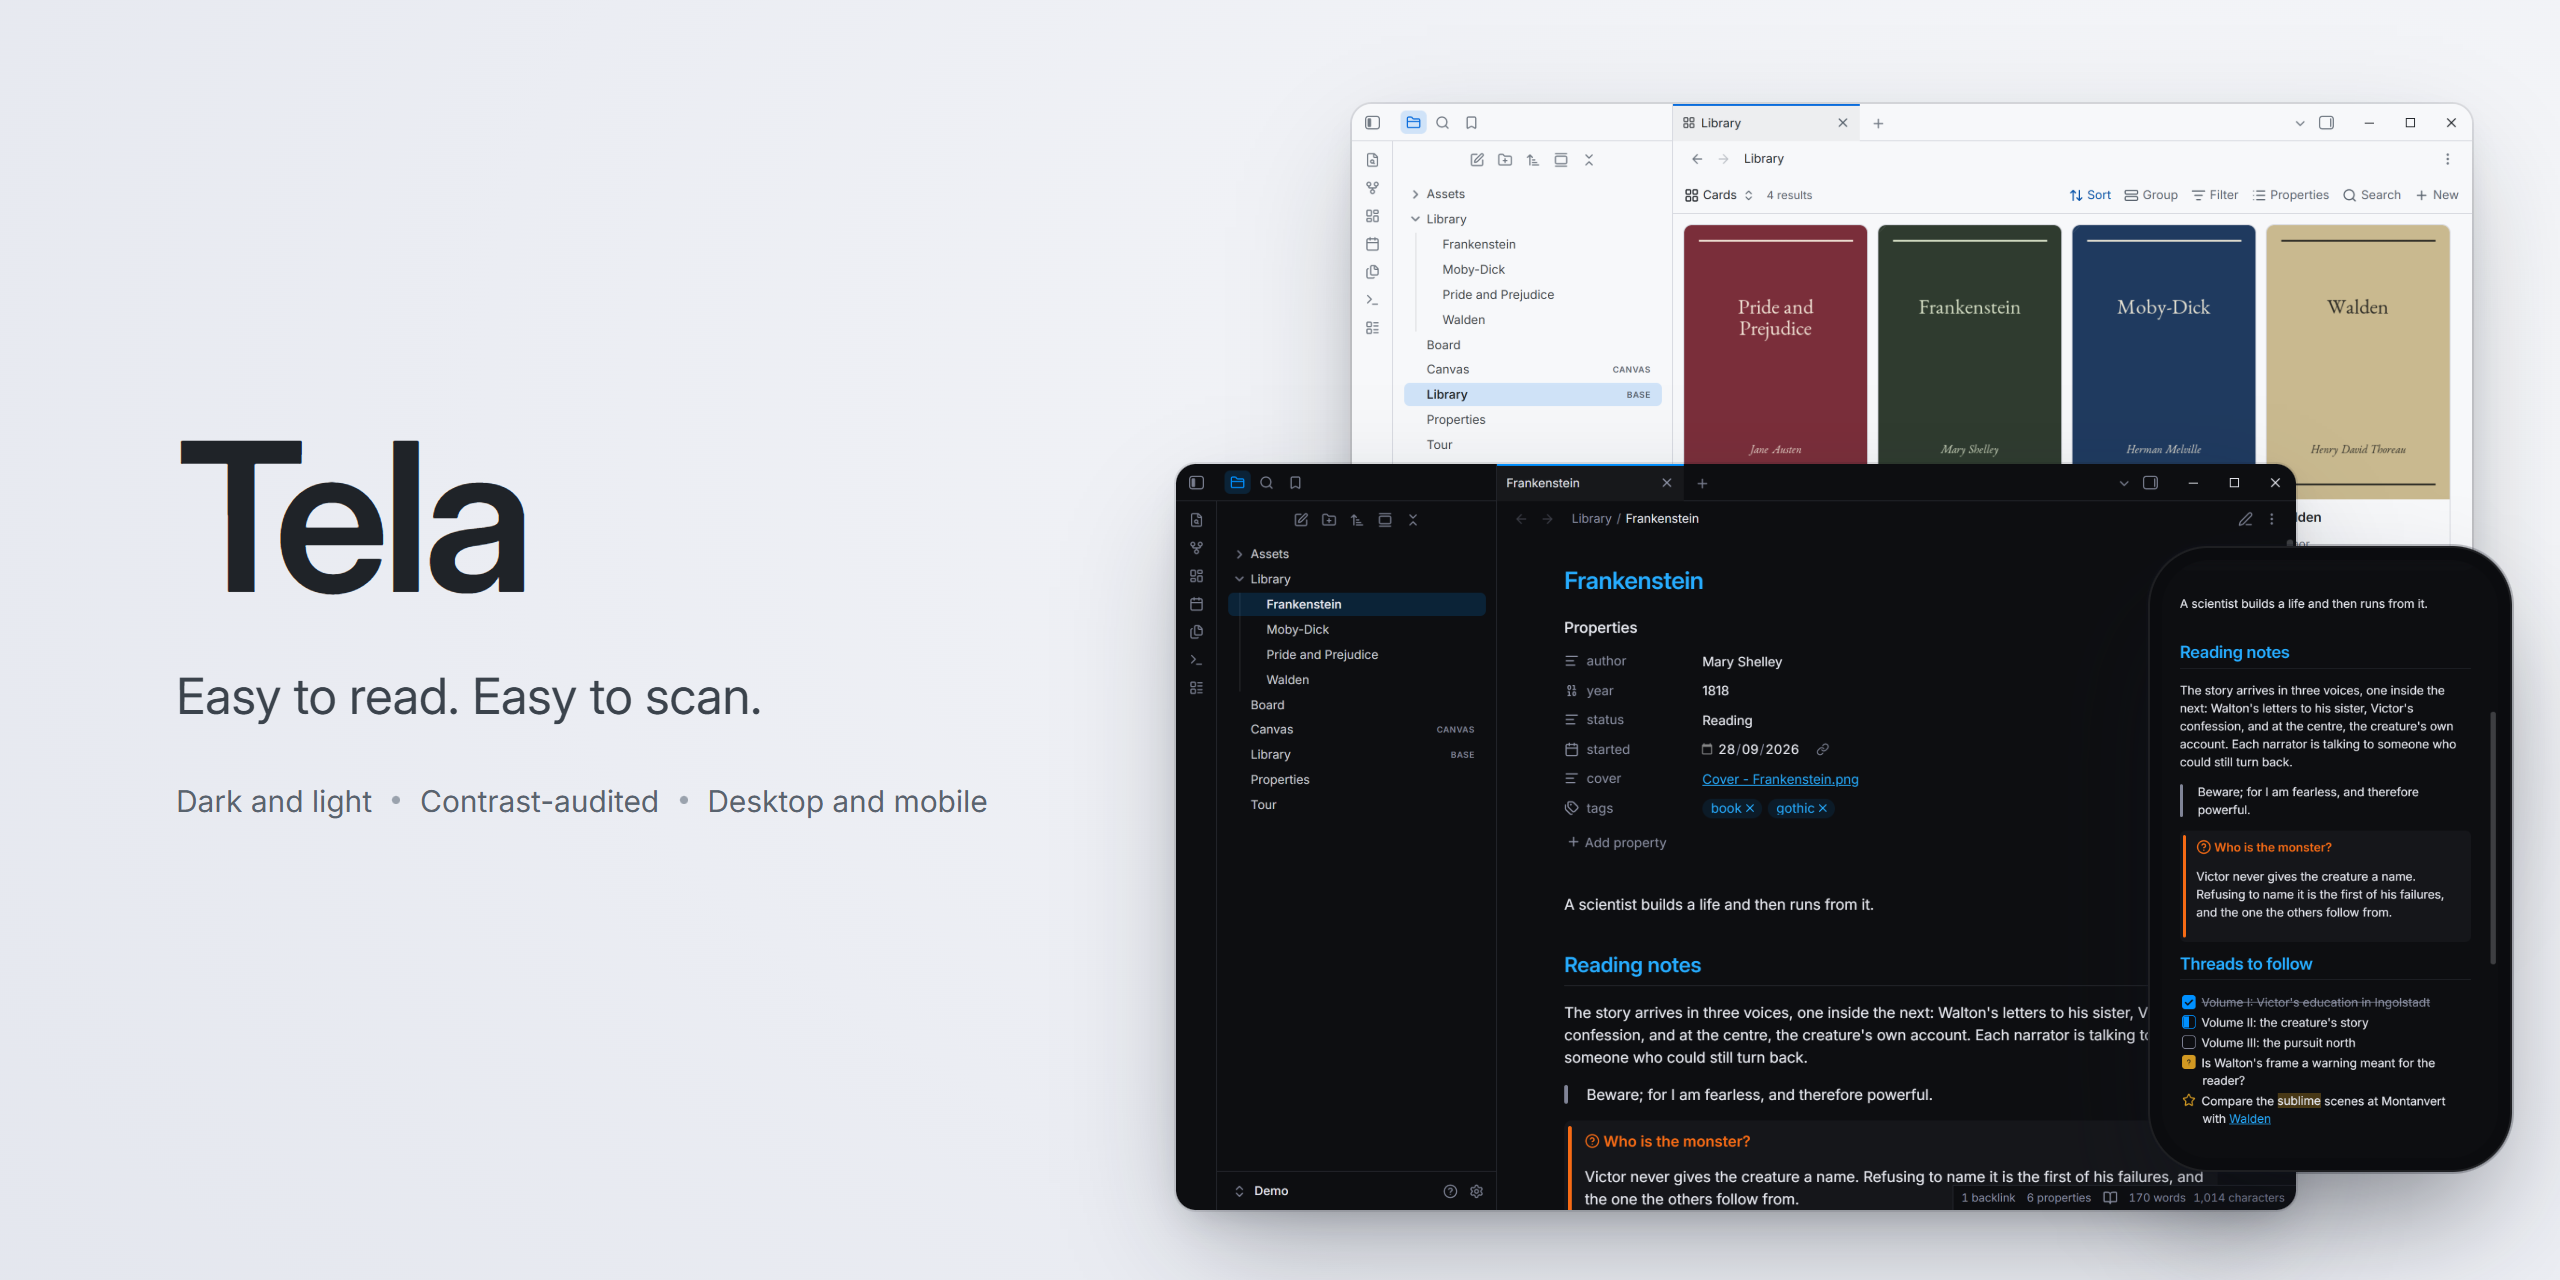
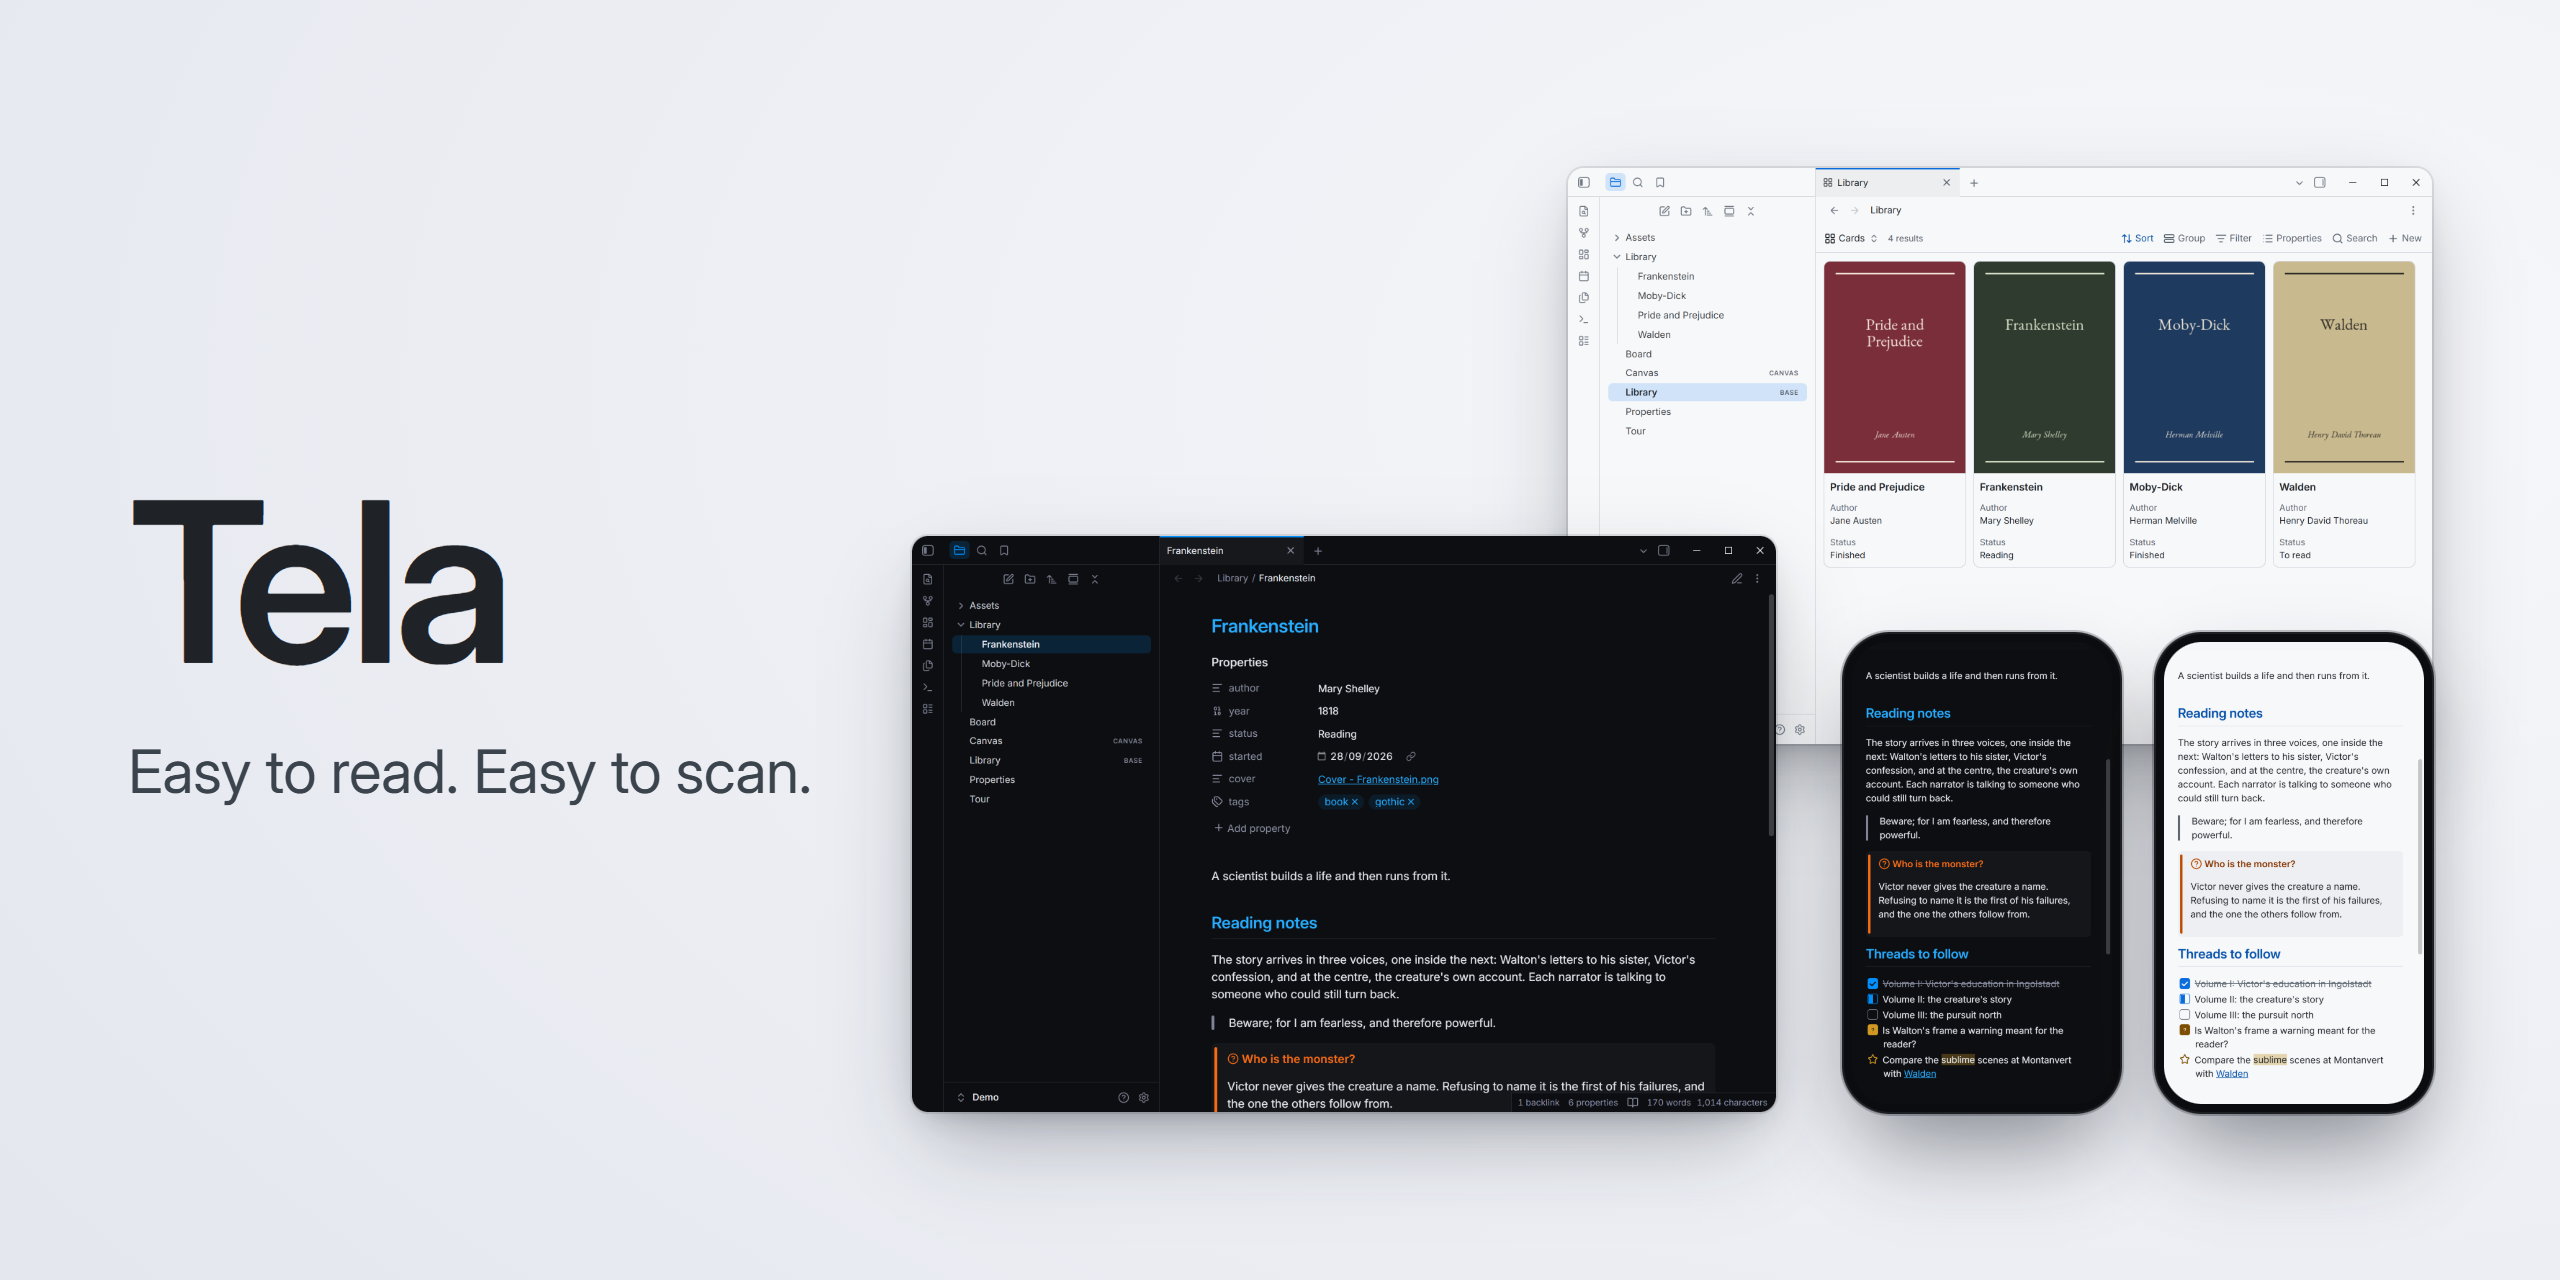
feat: the cover matches the directory's card (#20)
The README cover, also the GitHub social preview, shows the card's scene at
0.72 scale: both windows and a phone in each mode, without the facts line.

diff --git a/scripts/shots-cover.html b/scripts/shots-cover.html
@@ -1,6 +1,8 @@
-<!-- The README cover, 1280x640 at 2x. scripts/shots.mjs fills {{light}},
-     {{dark}} and {{phone}} with its captures and renders this in a shadow
-     root over Obsidian, so the type is the Inter that Obsidian bundles. -->
+<!-- The README cover and GitHub social preview, 1280x640 at 2x: the card's
+     scene (scripts/shots-card.html) at 0.72 scale beside the title.
+     scripts/shots.mjs fills {{light}}, {{dark}}, {{phone}} and {{phoneLight}}
+     with its captures and renders this in a shadow root over Obsidian, so the
+     type is the Inter that Obsidian bundles. -->
 <style>
 	.cover {
 		position: relative;
@@ -11,41 +13,39 @@
 		font-family: "Inter", sans-serif;
 		-webkit-font-smoothing: antialiased;
 	}
-	.title { position: absolute; left: 88px; top: 206px; }
-	h1 { margin: 0; color: #1f2328; font-size: 104px; font-weight: 600; letter-spacing: -0.035em; line-height: 1; }
-	.tagline { margin-top: 22px; color: #3b434c; font-size: 25px; letter-spacing: -0.01em; }
-	.facts { display: flex; gap: 10px; align-items: center; margin-top: 26px; color: #59636e; font-size: 15px; }
-	.facts i { display: inline-block; width: 4px; height: 4px; border-radius: 50%; background: #9aa2ad; }
+	.title { position: absolute; left: 64px; top: 50%; transform: translateY(-50%); }
+	h1 { margin: 0; color: #1f2328; font-size: 112px; font-weight: 600; letter-spacing: -0.035em; line-height: 1; }
+	.tagline { margin-top: 20px; color: #3b434c; font-size: 30px; letter-spacing: -0.01em; }
 	.window {
 		position: absolute;
-		width: 560px;
+		width: 432px;
 		overflow: hidden;
-		border-radius: 10px;
-		box-shadow: 0 0 0 1px rgb(15 20 30 / 10%), 0 24px 60px -12px rgb(15 20 30 / 35%), 0 8px 18px -8px rgb(15 20 30 / 25%);
+		border-radius: 8px;
+		box-shadow: 0 0 0 1px rgb(15 20 30 / 10%), 0 18px 45px -9px rgb(15 20 30 / 35%), 0 6px 14px -6px rgb(15 20 30 / 25%);
 	}
 	.window img { display: block; width: 100%; }
-	.light { left: 676px; top: 52px; }
-	.dark { left: 588px; top: 232px; }
+	.light { left: 784px; top: 84px; }
+	.dark { left: 456px; top: 268px; }
 	.phone {
 		position: absolute;
-		left: 1074px;
-		top: 273px;
-		width: 168px;
-		height: 299px;
-		padding: 7px;
-		border-radius: 30px;
+		width: 130px;
+		height: 231px;
+		padding: 5px;
+		border-radius: 24px;
 		background: #0b0c0f;
-		box-shadow: inset 0 0 0 1px rgb(255 255 255 / 8%), 0 0 0 1px rgb(15 20 30 / 25%), 0 30px 60px -14px rgb(15 20 30 / 50%);
+		box-shadow: inset 0 0 0 1px rgb(255 255 255 / 8%), 0 0 0 1px rgb(15 20 30 / 25%), 0 22px 45px -10px rgb(15 20 30 / 50%);
 	}
-	.phone img { display: block; width: 168px; height: 299px; border-radius: 24px; }
+	.phone img { display: block; width: 130px; height: 231px; border-radius: 19px; }
+	.phone.on-dark { left: 921px; top: 316px; }
+	.phone.on-light { left: 1077px; top: 316px; }
 </style>
 <div class="cover">
 	<div class="title">
 		<h1>Tela</h1>
 		<div class="tagline">Easy to read. Easy to scan.</div>
-		<div class="facts">Dark and light<i></i>Contrast-audited<i></i>Desktop and mobile</div>
 	</div>
 	<div class="window light"><img src="{{light}}" alt=""></div>
 	<div class="window dark"><img src="{{dark}}" alt=""></div>
-	<div class="phone"><img src="{{phone}}" alt=""></div>
+	<div class="phone on-dark"><img src="{{phone}}" alt=""></div>
+	<div class="phone on-light"><img src="{{phoneLight}}" alt=""></div>
 </div>

diff --git a/CHANGELOG.md b/CHANGELOG.md
@@ -2,6 +2,10 @@
 
 ## Unreleased
 
+### 2026-10-23: the cover matches the directory's card
+
+- The README cover, also the GitHub social preview, kept its launch layout after the directory got its card: one dark phone and a facts line. It now shows the card's scene at 0.72 scale beside the title: the same windows and a phone in each mode, and the title and tagline without the facts line, which can't be read at a link preview's size. `scripts/shots-cover.html` has the new layout; `assets/cover.webp` is rendered again from it on Obsidian 1.14.4.
+
 ### 2026-10-22: the theme browser's thumbnail matches the card
 
 - `assets/screenshot.png`, the 512×288 thumbnail Obsidian's theme browser shows, was a plain capture of the dark note. It is now the card's scene in 16:9 (wordmark, tagline, both windows and a phone in each mode), laid out by `scripts/shots-thumb.html`, so the theme browser and the community directory show the same image. `npm run shots -- --only screenshot` renders it from the same captures as the card; the `store` device that captured the old one is gone.

diff --git a/README.md b/README.md
@@ -1,4 +1,4 @@
-<img src="assets/cover.webp" alt="Tela, an Obsidian theme that is easy to read and easy to scan: a reading note in dark mode, the Library's book covers in light mode, and the same note on a phone">
+<img src="assets/cover.webp" alt="Tela, an Obsidian theme that is easy to read and easy to scan: a reading note in dark mode, the Library's book covers in light mode, and the same note on phones in dark and light">
 
 An Obsidian theme inspired by the style guide of the Tela app. It supports dark and light
 mode, on desktop, phone and tablet.
